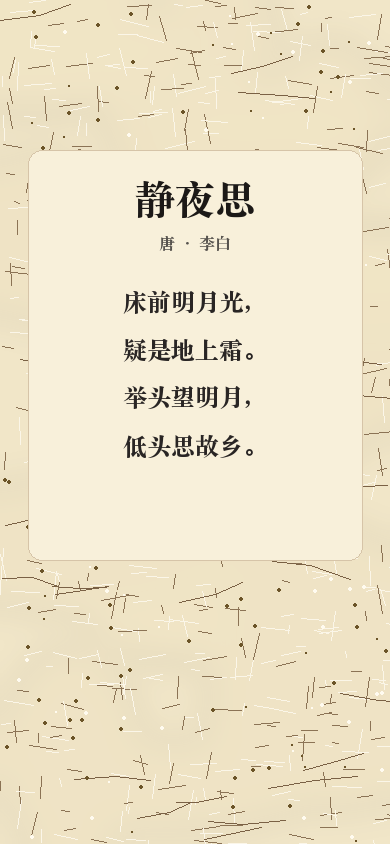
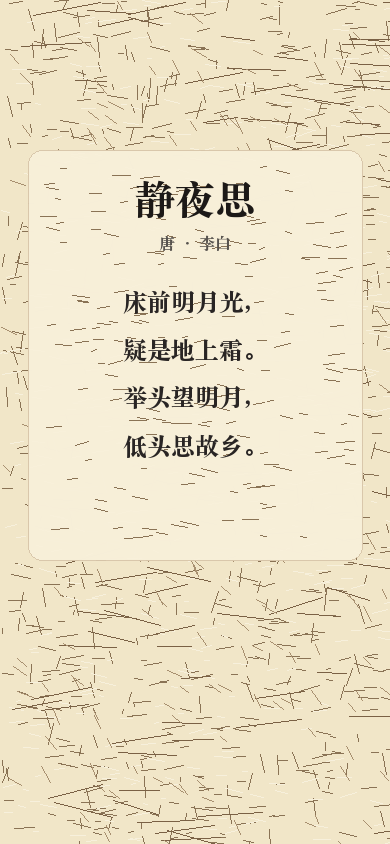
fix: keep only rough pulp fibers on xuan paper
Drop blotches and flecks so poetry backgrounds read as coarse
paper fiber only.

diff --git a/apps/mobile/lib/features/jingway/presentation/jingway_rice_paper.dart b/apps/mobile/lib/features/jingway/presentation/jingway_rice_paper.dart
@@ -1,11 +1,10 @@
 import 'dart:math' as math;
-import 'dart:ui' as ui;
 
 import 'package:flutter/material.dart';
 
 import 'jingway_colors.dart';
 
-/// Full-bleed 宣纸 backdrop with visible pulp / fiber texture.
+/// Full-bleed 宣纸 backdrop with rough pulp-fiber texture only.
 class JingwayRicePaperBackdrop extends StatelessWidget {
   const JingwayRicePaperBackdrop({
     required this.child,
@@ -43,7 +42,7 @@ class JingwayRicePaperPanel extends StatelessWidget {
       child: CustomPaint(
         painter: JingwayRicePaperPainter(
           baseColor: JingwayColors.surface,
-          intensity: 1.15,
+          intensity: 1.1,
         ),
         child: DecoratedBox(
           decoration: BoxDecoration(
@@ -59,7 +58,7 @@ class JingwayRicePaperPanel extends StatelessWidget {
   }
 }
 
-/// Procedural xuan-paper: warm wash + interlocking pulp fibers + flecks.
+/// Procedural xuan-paper: warm base + tangled rough fibers only.
 class JingwayRicePaperPainter extends CustomPainter {
   const JingwayRicePaperPainter({
     this.baseColor = JingwayColors.cream,
@@ -69,126 +68,95 @@ class JingwayRicePaperPainter extends CustomPainter {
   final Color baseColor;
   final double intensity;
 
+  static const Color _fiberDark = Color(0xFF8A7355);
+  static const Color _fiberMid = Color(0xFFA89070);
+  static const Color _fiberLight = Color(0xFFF7F0DC);
+
   @override
   void paint(Canvas canvas, Size size) {
-    final Rect bounds = Offset.zero & size;
-    canvas.drawRect(bounds, Paint()..color = baseColor);
+    canvas.drawRect(Offset.zero & size, Paint()..color = baseColor);
 
-    // Soft warm mottling (云状色斑).
     final _Rng rng = _Rng(
-      0x9E3779B9 ^
+      0xC0FFEE ^
           size.width.round() * 73856093 ^
           size.height.round() * 19349663,
     );
-    final int blotches =
-        (12 * intensity).round().clamp(8, 22);
-    for (int i = 0; i < blotches; i++) {
-      final double cx = rng.next() * size.width;
-      final double cy = rng.next() * size.height;
-      final double rx = 40 + rng.next() * size.width * 0.28;
-      final double ry = 28 + rng.next() * size.height * 0.18;
-      final bool warm = rng.next() > 0.45;
-      canvas.drawOval(
-        Rect.fromCenter(center: Offset(cx, cy), width: rx, height: ry),
-        Paint()
-          ..color = (warm ? const Color(0xFFE8D9B0) : const Color(0xFFDCC9A0))
-              .withValues(alpha: 0.10 * intensity)
-          ..maskFilter = const MaskFilter.blur(BlurStyle.normal, 18),
+
+    final Paint stroke = Paint()
+      ..style = PaintingStyle.stroke
+      ..strokeCap = StrokeCap.round;
+
+    // Dense short pulp fibers — mostly near-horizontal, some vertical tangle.
+    final int shortCount =
+        (size.width * size.height / 220 * intensity).round().clamp(320, 1400);
+    for (int i = 0; i < shortCount; i++) {
+      final double x = rng.next() * size.width;
+      final double y = rng.next() * size.height;
+      final double len = 4 + rng.next() * 22;
+      final double angle = rng.next() < 0.7
+          ? (rng.next() - 0.5) * 0.55
+          : math.pi / 2 + (rng.next() - 0.5) * 0.7;
+      final int tone = (rng.next() * 3).floor();
+      final Color base = tone == 0
+          ? _fiberDark
+          : tone == 1
+              ? _fiberMid
+              : _fiberLight;
+      final double alpha = tone == 2
+          ? 0.22 * intensity
+          : (0.09 + rng.next() * 0.08) * intensity;
+      stroke
+        ..strokeWidth = 0.55 + rng.next() * 1.35
+        ..color = base.withValues(alpha: alpha);
+      canvas.drawLine(
+        Offset(x, y),
+        Offset(x + math.cos(angle) * len, y + math.sin(angle) * len),
+        stroke,
       );
     }
 
-    // Edge burn / aged rim.
-    final Paint edge = Paint()
-      ..shader = ui.Gradient.radial(
-        Offset(size.width * 0.5, size.height * 0.45),
-        math.max(size.width, size.height) * 0.72,
-        <Color>[
-          const Color(0x00C4A574),
-          const Color(0x14A67C52),
-        ],
-        <double>[0.55, 1],
-      );
-    canvas.drawRect(bounds, edge);
-
-    // Interlocking plant fibers (纤维) — short strokes in two dominant angles.
-    final int fiberCount =
-        (size.width * size.height / 380 * intensity).round().clamp(180, 900);
-    final Paint fiberPaint = Paint()
-      ..strokeCap = StrokeCap.round
-      ..style = PaintingStyle.stroke;
-    for (int i = 0; i < fiberCount; i++) {
+    // Longer wavy strands for coarse paper tooth.
+    final int longCount =
+        (size.width * size.height / 5200 * intensity).round().clamp(40, 120);
+    for (int i = 0; i < longCount; i++) {
       final double x = rng.next() * size.width;
       final double y = rng.next() * size.height;
-      final double len = 6 + rng.next() * 28;
-      // Mostly horizontal pulp with a secondary diagonal family.
-      final double angle = rng.next() < 0.62
-          ? (rng.next() - 0.5) * 0.35
-          : (math.pi / 2) + (rng.next() - 0.5) * 0.5;
-      final double dx = math.cos(angle) * len;
-      final double dy = math.sin(angle) * len;
-      final bool dark = rng.next() > 0.55;
-      fiberPaint
-        ..strokeWidth = 0.45 + rng.next() * 1.1
-        ..color = (dark ? const Color(0xFF8B7355) : const Color(0xFFFBF6E8))
-            .withValues(alpha: (dark ? 0.10 : 0.16) * intensity);
-      canvas.drawLine(Offset(x, y), Offset(x + dx, y + dy), fiberPaint);
-    }
-
-    // Longer sparse bark-like strands.
-    final int longFibers =
-        (28 * intensity).round().clamp(16, 48);
-    for (int i = 0; i < longFibers; i++) {
-      final double x = rng.next() * size.width;
-      final double y = rng.next() * size.height;
-      final double len = 36 + rng.next() * 70;
-      final double angle = (rng.next() - 0.5) * 0.55;
+      final double len = 28 + rng.next() * 64;
+      final double angle = (rng.next() - 0.5) * 0.65;
+      final double wobble = (rng.next() - 0.5) * 14;
       final Path path = Path()
         ..moveTo(x, y)
         ..quadraticBezierTo(
-          x + math.cos(angle) * len * 0.5 + (rng.next() - 0.5) * 10,
-          y + math.sin(angle) * len * 0.5 + (rng.next() - 0.5) * 8,
+          x + math.cos(angle) * len * 0.5 + wobble,
+          y + math.sin(angle) * len * 0.5 + (rng.next() - 0.5) * 10,
           x + math.cos(angle) * len,
           y + math.sin(angle) * len,
         );
-      canvas.drawPath(
-        path,
-        Paint()
-          ..color = const Color(0xFF7A6145).withValues(alpha: 0.07 * intensity)
-          ..strokeWidth = 0.7 + rng.next() * 0.9
-          ..style = PaintingStyle.stroke
-          ..strokeCap = StrokeCap.round,
-      );
+      stroke
+        ..strokeWidth = 0.7 + rng.next() * 1.2
+        ..color = _fiberDark.withValues(
+          alpha: (0.07 + rng.next() * 0.06) * intensity,
+        );
+      canvas.drawPath(path, stroke);
     }
 
-    // Cotton flecks / pulp dots.
-    final int flecks =
-        (size.width * size.height / 1400 * intensity).round().clamp(60, 260);
-    for (int i = 0; i < flecks; i++) {
+    // Sparse crossing fibers (斜向交织) for roughness.
+    final int crossCount =
+        (size.width * size.height / 900 * intensity).round().clamp(80, 320);
+    for (int i = 0; i < crossCount; i++) {
       final double x = rng.next() * size.width;
       final double y = rng.next() * size.height;
-      final double r = 0.4 + rng.next() * 1.8;
-      final bool dark = rng.next() > 0.4;
-      canvas.drawCircle(
-        Offset(x, y),
-        r,
-        Paint()
-          ..color = (dark ? const Color(0xFF6B5428) : const Color(0xFFFFFBF0))
-              .withValues(alpha: (dark ? 0.08 : 0.18) * intensity),
-      );
-    }
-
-    // Fine cross-hatch veil for paper tooth.
-    final Paint veil = Paint()
-      ..color = const Color(0xFF9A8160).withValues(alpha: 0.03 * intensity)
-      ..strokeWidth = 0.6;
-    for (double y = 0; y < size.height; y += 7 + rng.next() * 3) {
-      canvas.drawLine(Offset(0, y), Offset(size.width, y + 1.5), veil);
-    }
-    for (double x = 0; x < size.width; x += 9 + rng.next() * 4) {
+      final double len = 8 + rng.next() * 18;
+      final double angle = math.pi / 4 + (rng.next() - 0.5) * 0.9;
+      stroke
+        ..strokeWidth = 0.5 + rng.next() * 0.9
+        ..color = _fiberMid.withValues(
+          alpha: (0.08 + rng.next() * 0.05) * intensity,
+        );
       canvas.drawLine(
-        Offset(x, 0),
-        Offset(x + 1.2, size.height),
-        veil..color = const Color(0xFFBFA888).withValues(alpha: 0.025 * intensity),
+        Offset(x, y),
+        Offset(x + math.cos(angle) * len, y + math.sin(angle) * len),
+        stroke,
       );
     }
   }
